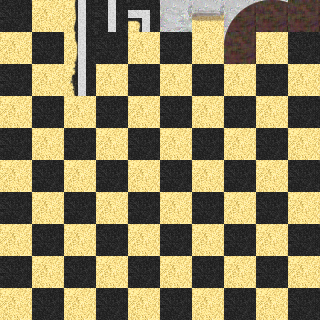
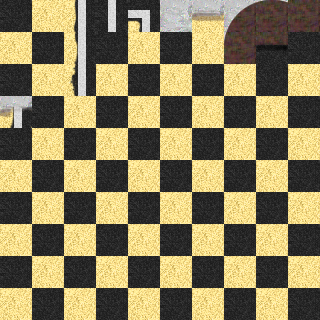
del mapa pixel a el mapa generado

Changed region(s): [[0.7812, 0.0938, 0.9062, 0.2188], [0.0, 0.2812, 0.125, 0.4062]]

diff --git a/src/mapa/MapaCargado.java b/src/mapa/MapaCargado.java
@@ -36,8 +36,47 @@ public class MapaCargado extends Mapa {
 		for (int i = 0; i < pixeles.length; i++) {
 			switch (pixeles[i]) {
 			// se le agrega ff para que sea opaco
-			case 0xff2f2f2f:
+			case 0xff000000:
 				cuadrosCatalogo[i] = Cuadro.ASFALTO;
+				continue;
+			case 0xfffee28d:
+				cuadrosCatalogo[i] = Cuadro.ARENA;
+				continue;
+			case 0xfffecc34:
+				cuadrosCatalogo[i] = Cuadro.BORDE_CARRETERA;
+				continue;
+			case 0xffd1d1d1:
+				cuadrosCatalogo[i] = Cuadro.CENTRO_CARRETERA;
+				continue;
+			case 0xff9e9e9e:
+				cuadrosCatalogo[i] = Cuadro.ESQUINA_CARRETERA;
+				continue;
+			case 0xffc8752b:
+				cuadrosCatalogo[i] = Cuadro.OXIDO;
+				continue;
+			case 0xff6c6c6c:
+				cuadrosCatalogo[i] = Cuadro.PARED_PIEDRA;
+				continue;
+			case 0xff806c5f:
+				cuadrosCatalogo[i] = Cuadro.PARED_PIEDRA_CARRETERA;
+				continue;
+			case 0xff4b3425:
+				cuadrosCatalogo[i] = Cuadro.PARED_PIEDRA_INFERIOR;
+				continue;
+			case 0xff98745c:
+				cuadrosCatalogo[i] = Cuadro.PUERTA_INFERIOR;
+				continue;
+			case 0xffb38364:
+				cuadrosCatalogo[i] = Cuadro.PUERTA_INTERMEDIA_IZQUIERDA;
+				continue;
+			case 0xff98281a:
+				cuadrosCatalogo[i] = Cuadro.PUERTA_SUPERIOR_CENTRAL;
+				continue;
+			case 0xffa14c41:
+				cuadrosCatalogo[i] = Cuadro.PUERTA_SUPERIOR_IZQUIERDA;
+				continue;
+			default:
+				cuadrosCatalogo[i] = Cuadro.VACIO;
 				continue;
 			}
 		}

diff --git a/src/juego/Juego.java b/src/juego/Juego.java
@@ -19,6 +19,7 @@ import java.awt.image.DataBufferInt;
 import javax.swing.JFrame;
 
 import mapa.Mapa;
+import mapa.MapaCargado;
 import mapa.MapaGenerado;
 import control.Teclado;
 
@@ -57,7 +58,8 @@ public class Juego extends Canvas implements Runnable {
         setPreferredSize(new Dimension(ANCHO, ALTO));
         
         pantalla = new Pantalla(ANCHO, ALTO);
-        mapa = new MapaGenerado(ANCHO, ALTO);
+        //mapa = new MapaGenerado(ANCHO, ALTO);
+        mapa = new MapaCargado("/mapas/mapa_desierto.png");
         
         teclado = new Teclado();
         addKeyListener(teclado);

diff --git a/src/mapa/Mapa.java b/src/mapa/Mapa.java
@@ -21,6 +21,7 @@ public abstract class Mapa {
 
 	public Mapa(String ruta) {
 		cargarMapa(ruta);
+		generarMapa();
 	}
 
 	protected void generarMapa() {
@@ -49,7 +50,12 @@ public abstract class Mapa {
 
 		for (int y = n; y < s; y++) {
 			for (int x = o; x < e; x++) {
-				obtenCuadro(x, y).mostrar(x, y, pantalla);
+				// obtenCuadro(x, y).mostrar(x, y, pantalla);
+				if (x < 0 || y < 0 || x >= ancho || y >= alto) {
+					Cuadro.VACIO.mostrar(x, y, pantalla);
+				} else {
+					cuadrosCatalogo[x + y * ancho].mostrar(x, y, pantalla);
+				}
 			}
 		}
 	}
